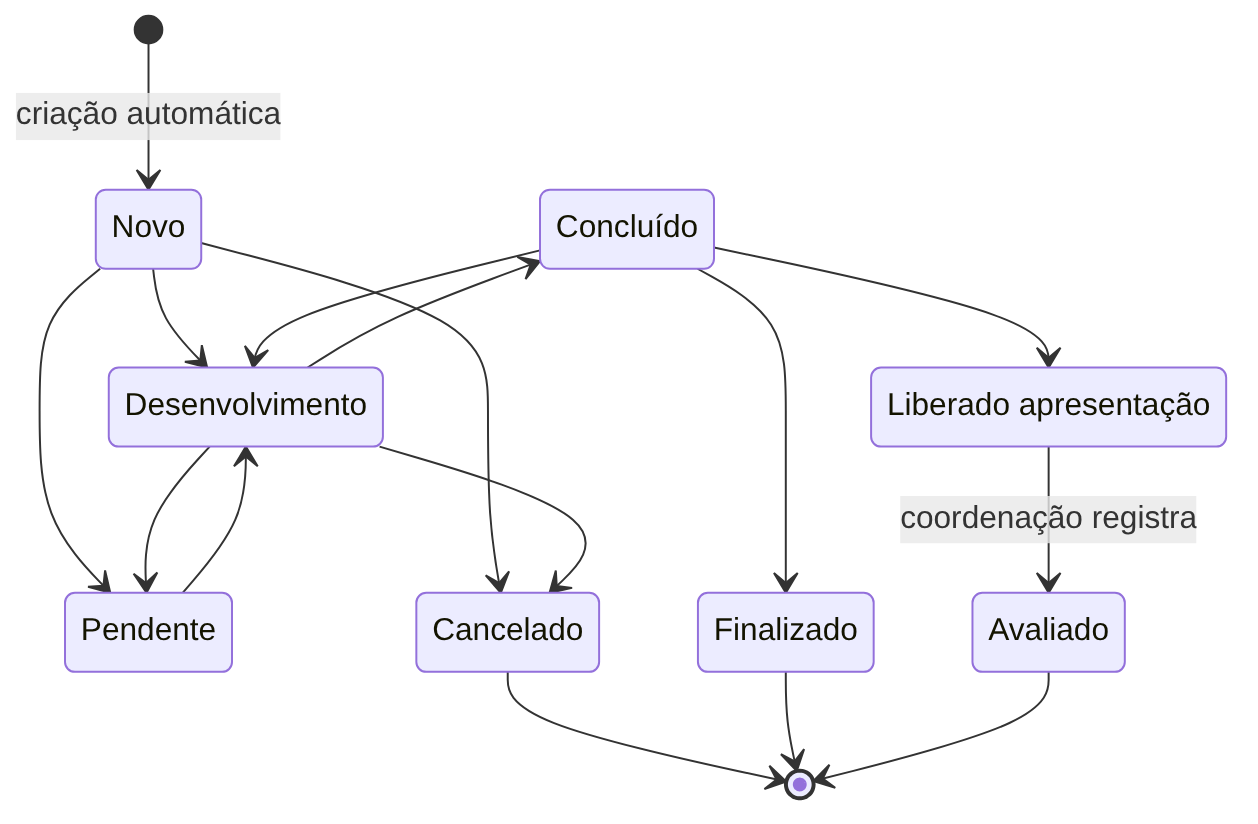
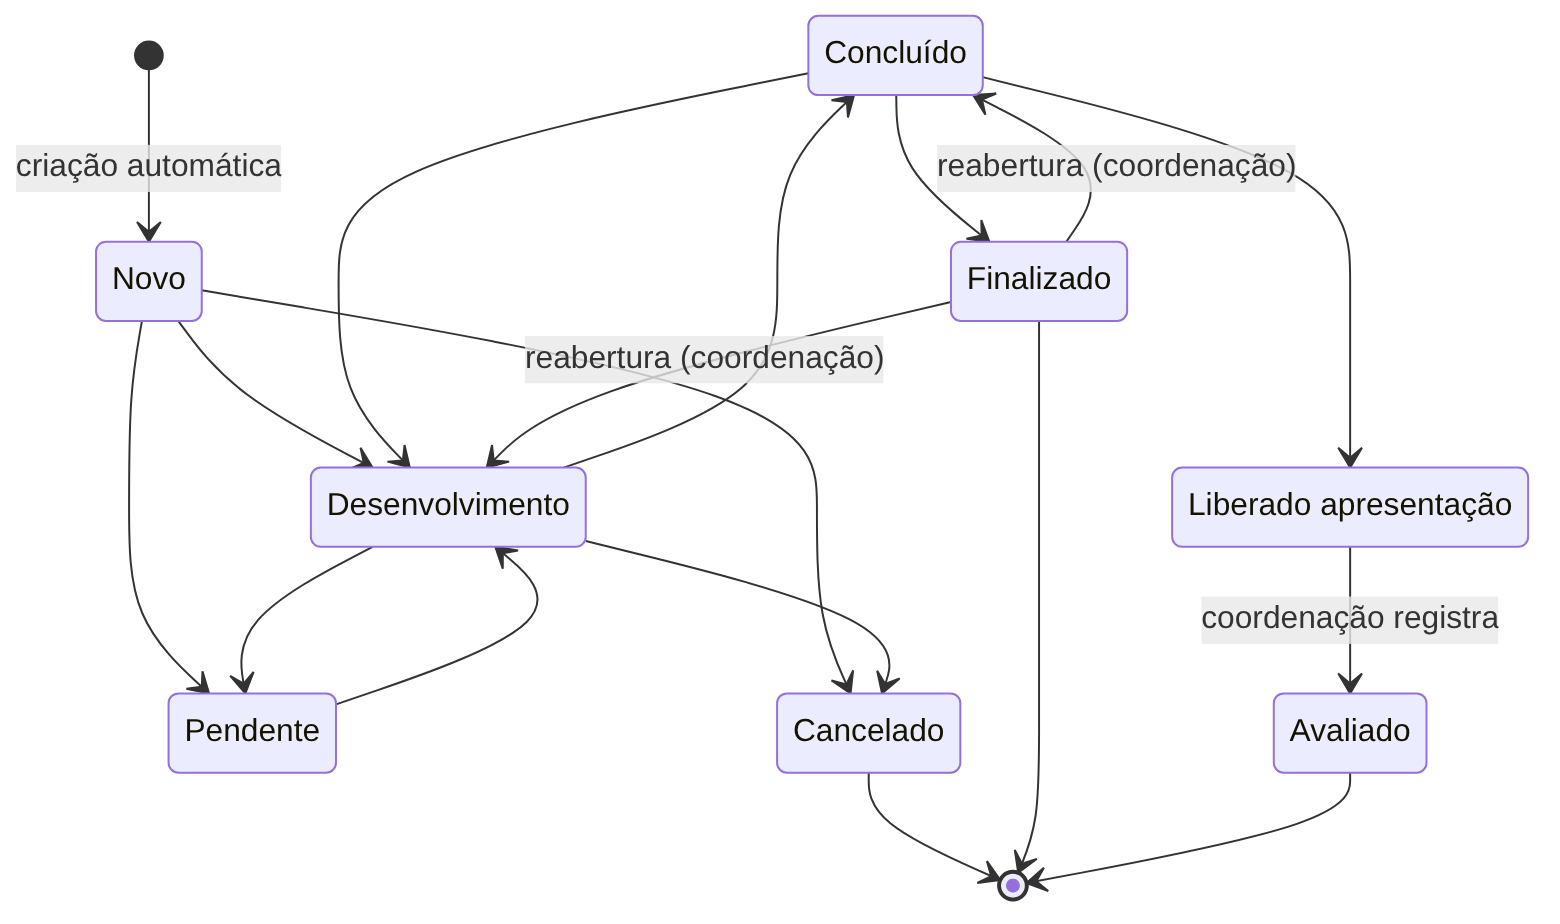
Add files via upload

diff --git a/documentos/estados/diagrama-estados.md b/documentos/estados/diagrama-estados.md
@@ -20,13 +20,15 @@ stateDiagram-v2
   Concluido --> Liberado
   Liberado --> Avaliado : coordenação registra
   Cancelado --> [*]
+  Finalizado --> Concluido : reabertura (coordenação)
+  Finalizado --> Desenvolvimento : reabertura (coordenação)
   Finalizado --> [*]
   Avaliado --> [*]
 ```
 
 ## Estados finais
 
-Cancelado, Finalizado e Avaliado. Nenhum deles aceita nova mudança de estado.
+Cancelado, Finalizado e Avaliado. Cancelado e Avaliado não aceitam nova mudança de estado. O Finalizado só pode ser reaberto pela Coordenação ou pelo Administrador (veja as regras).
 
 ## Quem realiza cada estado
 
@@ -38,6 +40,7 @@ Cancelado, Finalizado e Avaliado. Nenhum deles aceita nova mudança de estado.
 | Cancelado | Sim | Sim | A partir de Novo ou Desenvolvimento |
 | Concluído | Sim | Sim | A partir de Desenvolvimento |
 | Finalizado | Sim | Não | A partir de Concluído |
+| Reabertura de Finalizado (para Concluído ou Desenvolvimento) | Somente Coordenador e Administrador | Não | Corrige finalizações feitas por engano; não exige novos pareceres |
 | Liberado apresentação | Sim | Não | A partir de Concluído |
 | Avaliado | Somente Coordenador e Administrador | Não | A partir de Liberado apresentação, após a avaliação na mostra |
 
@@ -45,6 +48,6 @@ Cancelado, Finalizado e Avaliado. Nenhum deles aceita nova mudança de estado.
 
 - O orientador só altera os projetos em que consta como responsável; Coordenador e Administrador alteram todos.
 - O aluno só altera o estado dos projetos em que sua participação está **confirmada**, e apenas para Pendente, Cancelado ou Concluído.
-- Qualquer mudança para Desenvolvimento, inclusive o retorno a partir de Concluído, exige os pareceres de Ética e do Conselho aprovados ([atividades 05 a 07](../atividades/diagramas-atividade.md)).
+- Qualquer mudança para Desenvolvimento, inclusive o retorno a partir de Concluído, exige os pareceres de Ética e do Conselho aprovados ([atividades 05 a 07](../atividades/diagramas-atividade.md)). A reabertura de um projeto Finalizado é exceção: os pareceres já foram aprovados antes de o projeto entrar em Desenvolvimento.
 - Projetos Finalizados saem da listagem principal, mas continuam disponíveis na pesquisa e no histórico. Nenhum projeto é apagado ao mudar de estado.
 - Projetos antigos no estado "Em andamento" foram convertidos para Desenvolvimento.
